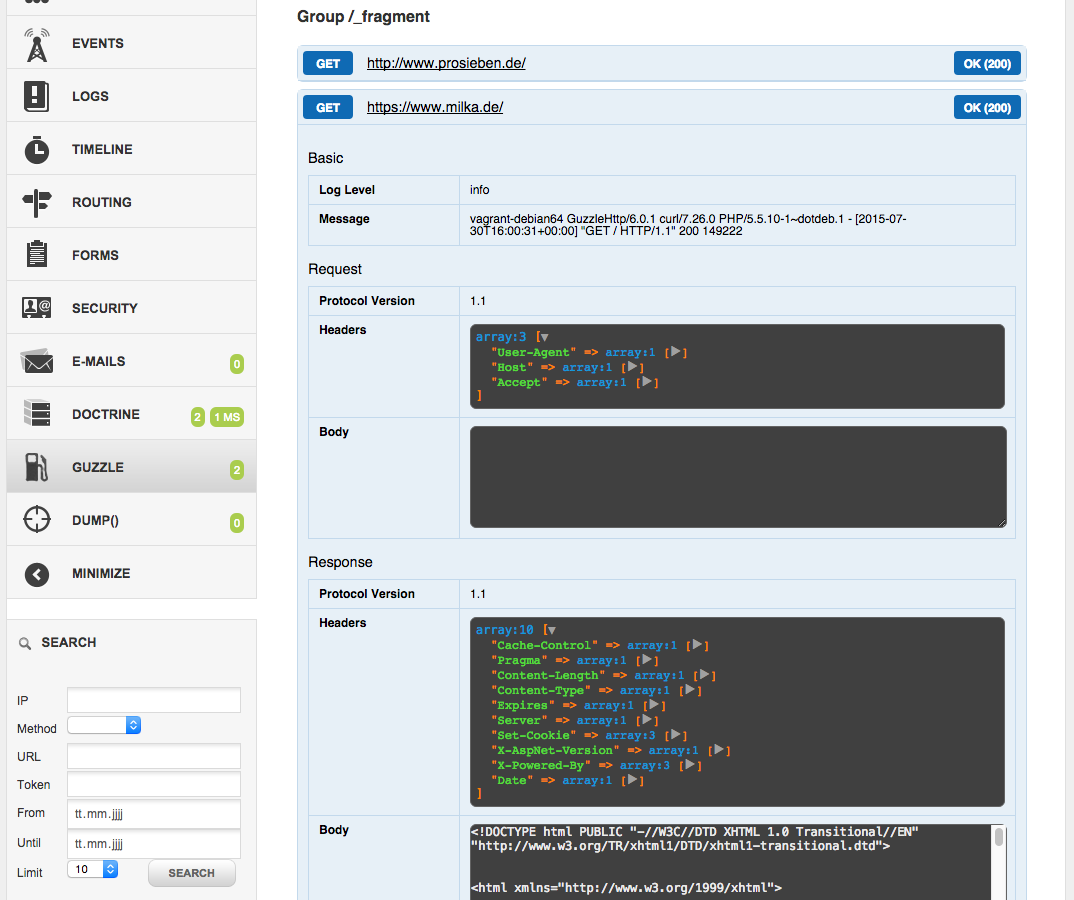
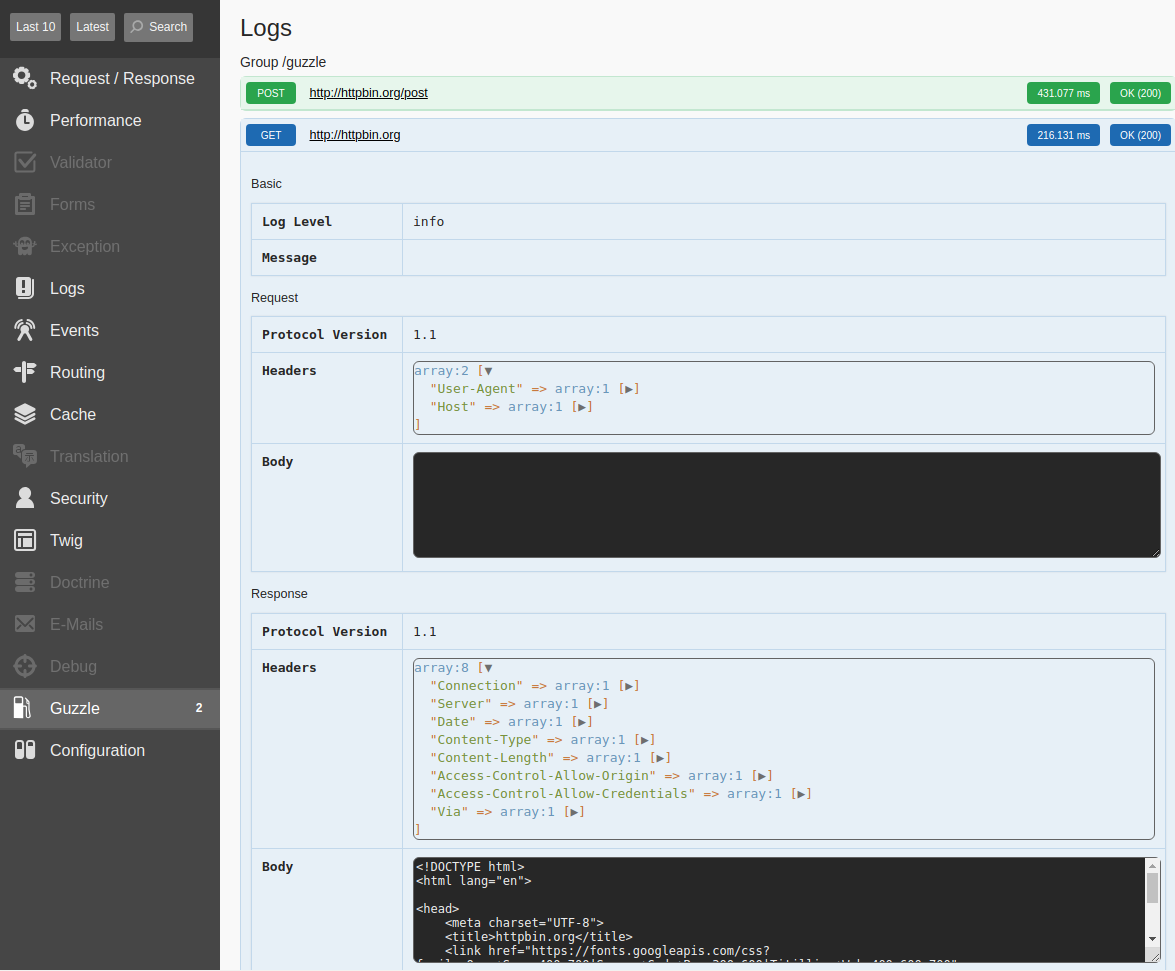
[Profiler] Timing information for each request

diff --git a/src/Resources/public/css/main.css b/src/Resources/public/css/main.css
@@ -73,6 +73,18 @@
     padding: 7px 10px 5px 10px;
     float: right;
     border-radius: 4px;
+    margin-left: 10px;
+}
+
+#gb_profiler h3 .gb_request__request_time {
+    text-decoration: none;
+    color: white;
+    display: inline-block;
+    font-size: 0.8em;
+    text-align: center;
+    padding: 7px 10px 5px 10px;
+    float: right;
+    border-radius: 4px;
 }
 
 #gb_profiler .gb_request.gb_request--get,
@@ -86,7 +98,8 @@
 }
 
 #gb_profiler .gb_request.gb_request--get h3 .gb_request__method,
-#gb_profiler .gb_request.gb_request--get h3 .gb_request__response {
+#gb_profiler .gb_request.gb_request--get h3 .gb_request__response,
+#gb_profiler .gb_request.gb_request--get h3 .gb_request__request_time {
     background-color: #0f6ab4;
 }
 
@@ -101,7 +114,8 @@
 }
 
 #gb_profiler .gb_request.gb_request--put h3 .gb_request__method,
-#gb_profiler .gb_request.gb_request--put h3 .gb_request__response {
+#gb_profiler .gb_request.gb_request--put h3 .gb_request__response,
+#gb_profiler .gb_request.gb_request--put h3 .gb_request__request_time {
     background-color: #c5862b;
 }
 
@@ -116,7 +130,8 @@
 }
 
 #gb_profiler .gb_request.gb_request--post h3 .gb_request__method,
-#gb_profiler .gb_request.gb_request--post h3 .gb_request__response {
+#gb_profiler .gb_request.gb_request--post h3 .gb_request__response,
+#gb_profiler .gb_request.gb_request--post h3 .gb_request__request_time {
     background-color: #10a54a;
 }
 
@@ -131,7 +146,8 @@
 }
 
 #gb_profiler .gb_request.gb_request--patch h3 .gb_request__method,
-#gb_profiler .gb_request.gb_request--patch h3 .gb_request__response {
+#gb_profiler .gb_request.gb_request--patch h3 .gb_request__response,
+#gb_profiler .gb_request.gb_request--patch h3 .gb_request__request_time {
     background-color: #d07e44;
 }
 
@@ -146,7 +162,8 @@
 }
 
 #gb_profiler .gb_request.gb_request--delete h3 .gb_request__method,
-#gb_profiler .gb_request.gb_request--delete h3 .gb_request__response {
+#gb_profiler .gb_request.gb_request--delete h3 .gb_request__response,
+#gb_profiler .gb_request.gb_request--delete h3 .gb_request__request_time {
     background-color: #a41e22;
 }
 

diff --git a/src/Middleware/RequestTimeMiddleware.php b/src/Middleware/RequestTimeMiddleware.php
@@ -2,20 +2,27 @@
 
 namespace EightPoints\Bundle\GuzzleBundle\Middleware;
 
+use EightPoints\Bundle\GuzzleBundle\Log\Logger;
+use EightPoints\Bundle\GuzzleBundle\Log\LoggerInterface;
 use EightPoints\Bundle\GuzzleBundle\DataCollector\HttpDataCollector;
 use Psr\Http\Message\RequestInterface;
 use GuzzleHttp\TransferStats;
 
 class RequestTimeMiddleware
 {
+    /** @var \EightPoints\Bundle\GuzzleBundle\Log\LoggerInterface */
+    protected $logger;
+
     /** @var \EightPoints\Bundle\GuzzleBundle\DataCollector\HttpDataCollector */
     private $dataCollector;
 
     /**
+     * @param \EightPoints\Bundle\GuzzleBundle\Log\LoggerInterface $logger
      * @param \EightPoints\Bundle\GuzzleBundle\DataCollector\HttpDataCollector $dataCollector
      */
-    public function __construct(HttpDataCollector $dataCollector)
+    public function __construct(LoggerInterface $logger, HttpDataCollector $dataCollector)
     {
+        $this->logger = $logger;
         $this->dataCollector = $dataCollector;
     }
 
@@ -30,7 +37,10 @@ class RequestTimeMiddleware
             RequestInterface $request,
             array $options
         ) use ($handler) {
-            $options['on_stats'] = $this->getOnStatsCallback(isset($options['on_stats']) ? $options['on_stats'] : null);
+            $options['on_stats'] = $this->getOnStatsCallback(
+                isset($options['on_stats']) ? $options['on_stats'] : null,
+                isset($options['request_id']) ? $options['request_id'] : null
+            );
 
             // Continue the handler chain.
             return $handler($request, $options);
@@ -42,17 +52,22 @@ class RequestTimeMiddleware
      * If request has on_stats option, it will be called inside of this callback.
      *
      * @param null|callable $initialOnStats
+     * @param null|string $requestId
      *
      * @return \Closure
      */
-    protected function getOnStatsCallback($initialOnStats) : \Closure
+    protected function getOnStatsCallback($initialOnStats, $requestId) : \Closure
     {
-        return function (TransferStats $stats) use ($initialOnStats) {
+        return function (TransferStats $stats) use ($initialOnStats, $requestId) {
             if (is_callable($initialOnStats)) {
                 call_user_func($initialOnStats, $stats);
             }
 
             $this->dataCollector->addTotalTime((float)$stats->getTransferTime());
+
+            if ($requestId && $this->logger instanceof Logger) {
+                $this->logger->addTransferTimeByRequestId($requestId, (float)$stats->getTransferTime());
+            }
         };
     }
 }

diff --git a/src/Middleware/LogMiddleware.php b/src/Middleware/LogMiddleware.php
@@ -37,24 +37,32 @@ class LogMiddleware
         return function (callable $handler) use ($logger, $formatter) {
 
             return function ($request, array $options) use ($handler, $logger, $formatter) {
+                // generate id that will be used to supplement the log with information
+                $requestId = uniqid('eight_points_guzzle_');
+
+                // initial registration of log
+                $logger->info('', compact('request', 'requestId'));
+
+                // this id will be used by RequestTimeMiddleware
+                $options['request_id'] = $requestId;
 
                 return $handler($request, $options)->then(
 
-                    function ($response) use ($logger, $request, $formatter) {
+                    function ($response) use ($logger, $request, $formatter, $requestId) {
 
                         $message = $formatter->format($request, $response);
-                        $context = compact('request', 'response');
+                        $context = compact('request', 'response', 'requestId');
 
                         $logger->info($message, $context);
 
                         return $response;
                     },
 
-                    function ($reason) use ($logger, $request, $formatter) {
+                    function ($reason) use ($logger, $request, $formatter, $requestId) {
 
                         $response = $reason instanceof RequestException ? $reason->getResponse() : null;
                         $message  = $formatter->format($request, $response, $reason);
-                        $context  = compact('request', 'response');
+                        $context  = compact('request', 'response', 'requestId');
 
                         $logger->notice($message, $context);
 

diff --git a/src/Log/Logger.php b/src/Log/Logger.php
@@ -22,7 +22,14 @@ class Logger implements LoggerInterface
      */
     public function log($level, $message, array $context = [])
     {
-        $logMessage = new LogMessage($message);
+        $requestId = isset($context['requestId']) ? $context['requestId'] : uniqid('eight_points_guzzle_');
+
+        if (array_key_exists($requestId, $this->messages)) {
+            $logMessage = $this->messages[$requestId];
+        } else {
+            $logMessage = new LogMessage($message);
+        }
+
         $logMessage->setLevel($level);
 
         if (!empty($context)) {
@@ -35,7 +42,7 @@ class Logger implements LoggerInterface
             }
         }
 
-        $this->messages[] = $logMessage;
+        $this->messages[$requestId] = $logMessage;
     }
 
     /**
@@ -66,5 +73,16 @@ class Logger implements LoggerInterface
     public function getMessages() : array
     {
         return $this->messages;
+    }
+
+    /**
+     * @param $requestId
+     * @param $transferTime
+     */
+    public function addTransferTimeByRequestId($requestId, $transferTime)
+    {
+        if (array_key_exists($requestId, $this->messages)) {
+            $this->messages[$requestId]->setTransferTime($transferTime);
+        }
     }
 }

diff --git a/src/DependencyInjection/EightPointsGuzzleExtension.php b/src/DependencyInjection/EightPointsGuzzleExtension.php
@@ -218,12 +218,13 @@ class EightPointsGuzzleExtension extends Extension
     {
         $requestTimeMiddlewareDefinitionName = sprintf('eight_points_guzzle.middleware.request_time.%s', $clientName);
         $requestTimeMiddlewareDefinition = new Definition('%eight_points_guzzle.middleware.request_time.class%');
+        $requestTimeMiddlewareDefinition->addArgument(new Reference('eight_points_guzzle.logger'));
         $requestTimeMiddlewareDefinition->addArgument(new Reference('eight_points_guzzle.data_collector'));
         $requestTimeMiddlewareDefinition->setPublic(true);
         $container->setDefinition($requestTimeMiddlewareDefinitionName, $requestTimeMiddlewareDefinition);
 
         $requestTimeExpression = new Expression(sprintf("service('%s')", $requestTimeMiddlewareDefinitionName));
-        $handler->addMethodCall('push', [$requestTimeExpression, 'request_time']);
+        $handler->addMethodCall('after', ['log', $requestTimeExpression, 'request_time']);
     }
 
     /**

diff --git a/tests/Middleware/RequestTimeMiddlewareTest.php b/tests/Middleware/RequestTimeMiddlewareTest.php
@@ -30,7 +30,7 @@ class RequestTimeMiddlewareTest extends TestCase
         $request = new Request('GET', 'http://test.com');
         $handler = new MockHandler([new Response(200)]);
 
-        $requestTimeMiddleware = new RequestTimeMiddleware($httpDataCollector);
+        $requestTimeMiddleware = new RequestTimeMiddleware($this->logger, $httpDataCollector);
         $invokeResult = $requestTimeMiddleware($handler);
         $invokeResult($request, []);
 
@@ -55,7 +55,7 @@ class RequestTimeMiddlewareTest extends TestCase
         $onStatsCallable->expects(self::once())
             ->method('__invoke');
 
-        $requestTimeMiddleware = new RequestTimeMiddleware($httpDataCollector);
+        $requestTimeMiddleware = new RequestTimeMiddleware($this->logger, $httpDataCollector);
         $invokeResult = $requestTimeMiddleware($handler);
         $invokeResult($request, ['on_stats' => $onStatsCallable]);
 

diff --git a/tests/Middleware/LogMiddlewareTest.php b/tests/Middleware/LogMiddlewareTest.php
@@ -36,7 +36,10 @@ class LogMiddlewareTest extends TestCase
 
         $messages = $logger->getMessages();
         $this->assertCount(1, $messages);
-        $this->assertEquals(LogLevel::INFO, $messages[0]->getLevel());
+
+        $message = reset($messages);
+
+        $this->assertEquals(LogLevel::INFO, $message->getLevel());
     }
 
     public function testRejectFromLog()
@@ -61,6 +64,9 @@ class LogMiddlewareTest extends TestCase
 
         $messages = $logger->getMessages();
         $this->assertCount(1, $messages);
-        $this->assertEquals(LogLevel::NOTICE, $messages[0]->getLevel());
+
+        $message = reset($messages);
+
+        $this->assertEquals(LogLevel::NOTICE, $message->getLevel());
     }
 }

diff --git a/src/Log/LogMessage.php b/src/Log/LogMessage.php
@@ -16,6 +16,9 @@ class LogMessage
     /** @var \EightPoints\Bundle\GuzzleBundle\Log\LogResponse */
     protected $response;
 
+    /** @var null|float */
+    protected $transferTime;
+
     /**
      * @param string $message
      */
@@ -98,5 +101,21 @@ class LogMessage
     public function getResponse()
     {
         return $this->response;
+    }
+
+    /**
+     * @return float|null
+     */
+    public function getTransferTime()
+    {
+        return $this->transferTime;
+    }
+
+    /**
+     * @param float|null $transferTime
+     */
+    public function setTransferTime($transferTime)
+    {
+        $this->transferTime = $transferTime;
     }
 }

diff --git a/tests/Log/LoggerTest.php b/tests/Log/LoggerTest.php
@@ -77,7 +77,8 @@ class LoggerTest extends TestCase
 
         $logger->log(LogLevel::INFO, 'info message', ['request' => $requestMock]);
 
-        $message = $logger->getMessages()[2];
+        $messages = array_slice($logger->getMessages(), 2, 1);
+        $message = reset($messages);
         $this->assertSame(LogLevel::INFO, $message->getLevel());
         $this->assertSame('info message', $message->getMessage());
 
